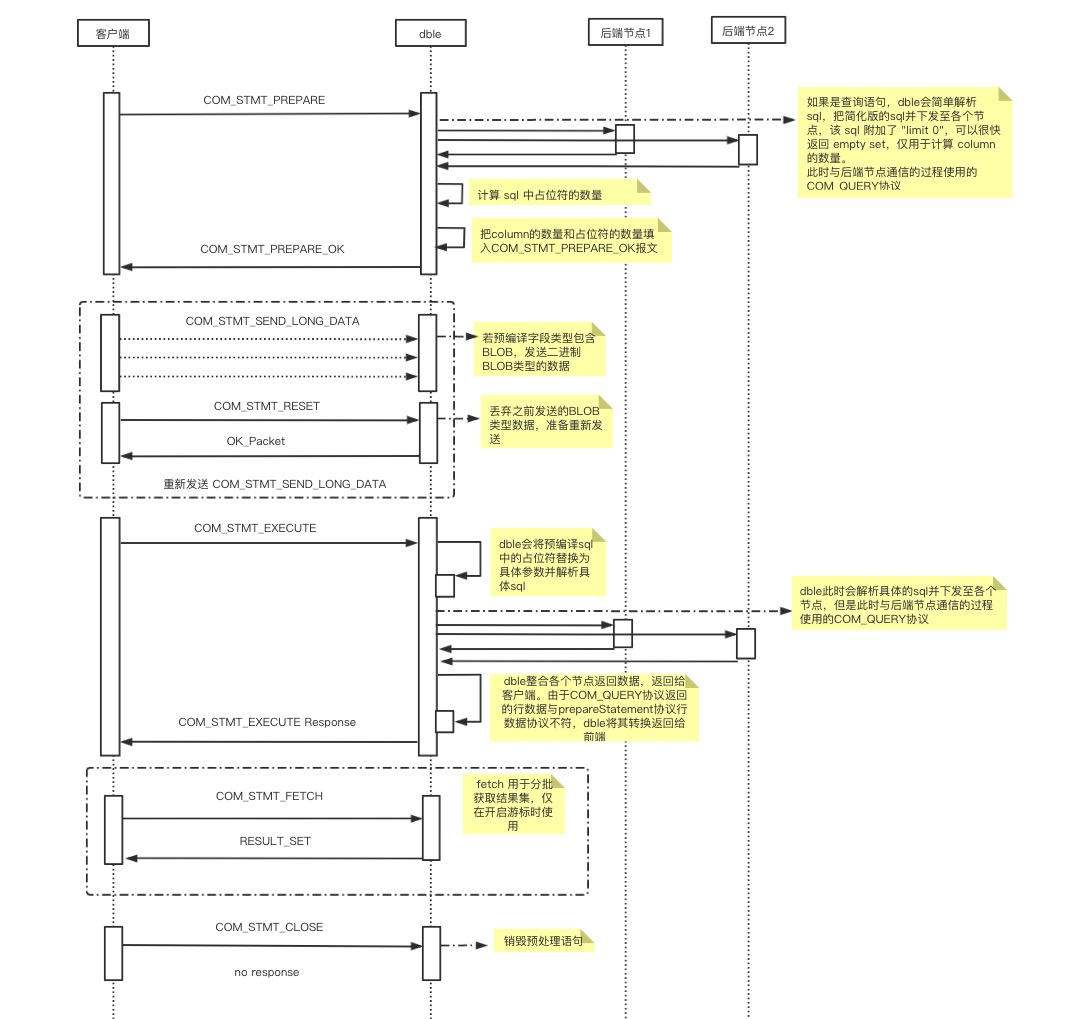
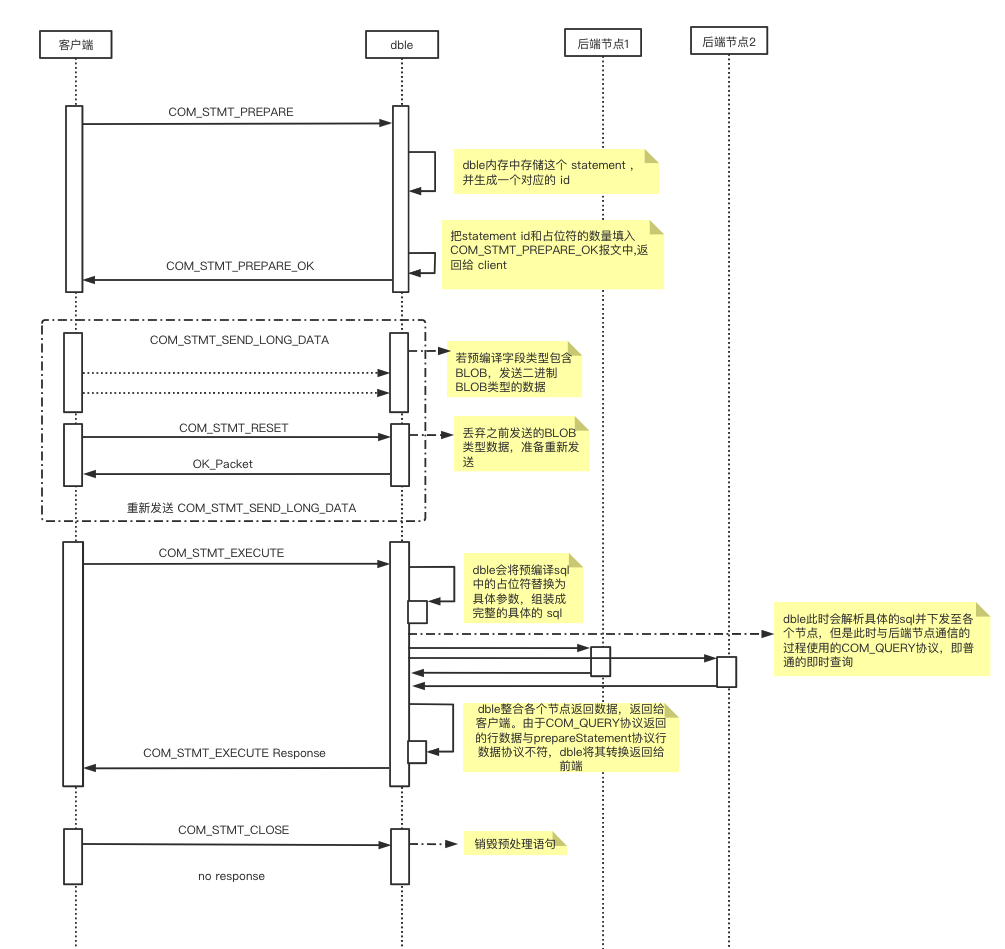
modify doc for ps&cursor

Changed region(s): [[0.0308, 0.0, 0.9871, 0.9779], [0.5552, 0.0, 0.6478, 0.0611]]

diff --git a/4.Protocol/4.4_Binary_Protocol.md b/4.Protocol/4.4_Binary_Protocol.md
@@ -1,27 +1,29 @@
-## 4.4 二进制协议 (Prepared Statements)
+## 4.4 预编译语句 (Prepared Statements)
 
-### 4.4.1 Supported  
 
-* COM\_STMT_CLOSE  
-Closes a previously prepared statement.  
-* COM\_STMT_EXECUTE  
-Executes a previously prepared statement.  
+### 4.4.1 开启方式
+**客户端**
+- 如果是jdbc需开启useServerPrepStmts，此时才会使用 server-side prepare，否则属于 client-side prepare。
+- 其他语言的 driver通常不用配置选项。
 
-* COM\_STMT_RESET   
-Resets a prepared statement on client and server to state after preparing.   
-* COM\_STMT\_SEND\_LONG_DATA  
-When data for a specific column is big, it can be sent separately.  
+**验证是否开启了**
 
-* COM\_STMT\_PREPARE  
-  Prepares a statement on the server
-  NOTICE: 
-      1. Although COM_STMT_PREPARE  works , but it will not do pre-compile .
-      2. If the "enableCursor" system param is enabled, Dble will send a special sql to collect column count.
+只提供 java 版本的
+``` java
+PreparedStatement preparedStatement = con.prepareStatement("select t1.id from no_sharding_t1 t1 where t1.id=?"); //可用于验证是否使用了dble 侧 prepare assert preparedStatement instanceof ServerPreparedStatement;
+```
 
-* COM\_STMT_FETCH  
-  Fetches rows from a prepared statement
+### 4.4.2 使用方式
+和直连 mysql 一样
 
-### 4.4.2 MySQL Flow
+
+### 4.4.4 分类
+- server-side prepare：通过 client发送 PS 协议的报文给server，由 server来完成拼装参数、优化、执行。 
+- client-side prepare : 由 client 来实现 PS 接口，prepare 阶段完成拼装参数，拼装完后，一次性发送 即时 SQL给 server，由 server 来完成优化、执行。这本质上是一个伪预编译，上述的 ”省去了每次都要解析优化的过程“ 这个优点无法实现。
+
+
+
+### 4.4.5 MySQL流程
 
 ![](pic/4.4.1.png)
 
@@ -30,9 +32,83 @@ When data for a specific column is big, it can be sent separately.
 - 可通过url方式指定useCursorFetch=true，开启分批从server查询数据。
 - 但是jdbc中默认fetchSize为0，jdbc中必须fetchSize > 0才会发送fetch包分批查询数据，否则和普通prepareStatement没有区别。
 
-### 4.4.3 Dble Flow
+### 4.4.6 Dble流程
 
 ![](pic/4.4.2.png)
+可以看到  client <-> dble 通讯使用了 server-side prepare，dble  <-> mysql 通讯使用了 client-side prepare，也就是说后端通讯和普通的即时查询无异，只是需要做一些协议上的包上的转换。
 
 
+### 4.4.7 通讯协议介绍
+
+* COM\_STMT_CLOSE  
+  Closes a previously prepared statement.
+* COM\_STMT_EXECUTE  
+  Executes a previously prepared statement.
+
+* COM\_STMT_RESET   
+  Resets a prepared statement on client and server to state after preparing.
+* COM\_STMT\_SEND\_LONG_DATA  
+  When data for a specific column is big, it can be sent separately.
+
+* COM\_STMT\_PREPARE  
+  Prepares a statement on the server
+  > NOTICE:  Although COM_STMT_PREPARE  works , but dble will not do pre-compile .
+
+* COM\_STMT_FETCH  
+  Fetches rows from a prepared statement
+
+
+
+### 4.4.8 Dble 游标
+#### 4.4.8.1 游标分类
+- server-side  cursor：server把结果集暂存起来，维护一个游标，client 根据需要读取指定的行数
+- client-side cursor: client 从 tcp 层面 控制报文的读取，当报文较大时暂停读取 socket。(不推荐，因为server 需要等待所有数据发送给 client 后，才能释放资源。）
+- 另一种 client-side cursor：client 把所有结果集读取到本地缓存，client每次从缓存读取指定行数（不推荐，本质上是个伪 cursor，只实现了 cursor API。并且在数据量较大时很容易撑爆 client 的内存）
+#### 4.4.8.2 游标开启必要条件
+**DBLE 端**
+
+- 如果版本<3.21.02, 不支持。
+- 如果版本=3.21.02,无需设置
+- 如果版本>3.21.02,需在 bootstrap.cnf开启-DenableCursor=false
+
+**客户端**
+
+1. 使用支持游标的driver（mysql官方的jdbc driver就支持）
+2. 如果是jdbc需开启useServerPrepStmts和useCursorFetch选项
+3. 执行 prepareStatement 后设置 fetchSize，必须大于 0.
+4. 执行 execute
+
+此时是开启游标的，如果对结果集 resultSet进行遍历，会按 fetchSize 的大小一次次地从 dble 取回数据。
+
+**验证是否开启了游标**
+
+客户端执行第4步后, 调用私有方法 useServerFetch 可验证。
+
+``` java
+final ResultSet resultSet = preparedStatement.executeQuery();
+//可用于验证是否使用了server-side 游标
+Method method = com.mysql.cj.jdbc.StatementImpl.class.getDeclaredMethod("useServerFetch");
+method.setAccessible(true);
+Boolean useServerFetch = (Boolean) method.invoke(preparedStatement);
+assert useServerFetch==true;
+```
+
+
+
+
+#### 4.4.8.3 Dble Server-side Cursor Flow
+
+![](pic/4.4.4.png)
+
+原理：
+
+1. prepare阶段下发特殊语句。用于计算sql 中的列数，这是client 所需的开启游标的必要条件。
+2. execute阶段把结果集存储到临时文件
+3. fetch阶段把结果集分批次一次次取出来
+
+#### 4.4.8.4 相关参数
+- maxHeapTableSize
+- heapTableBufferChunkSize
+
+见文档 https://actiontech.github.io/dble-docs-cn/1.config_file/1.02_bootstrap.cnf.html
 
